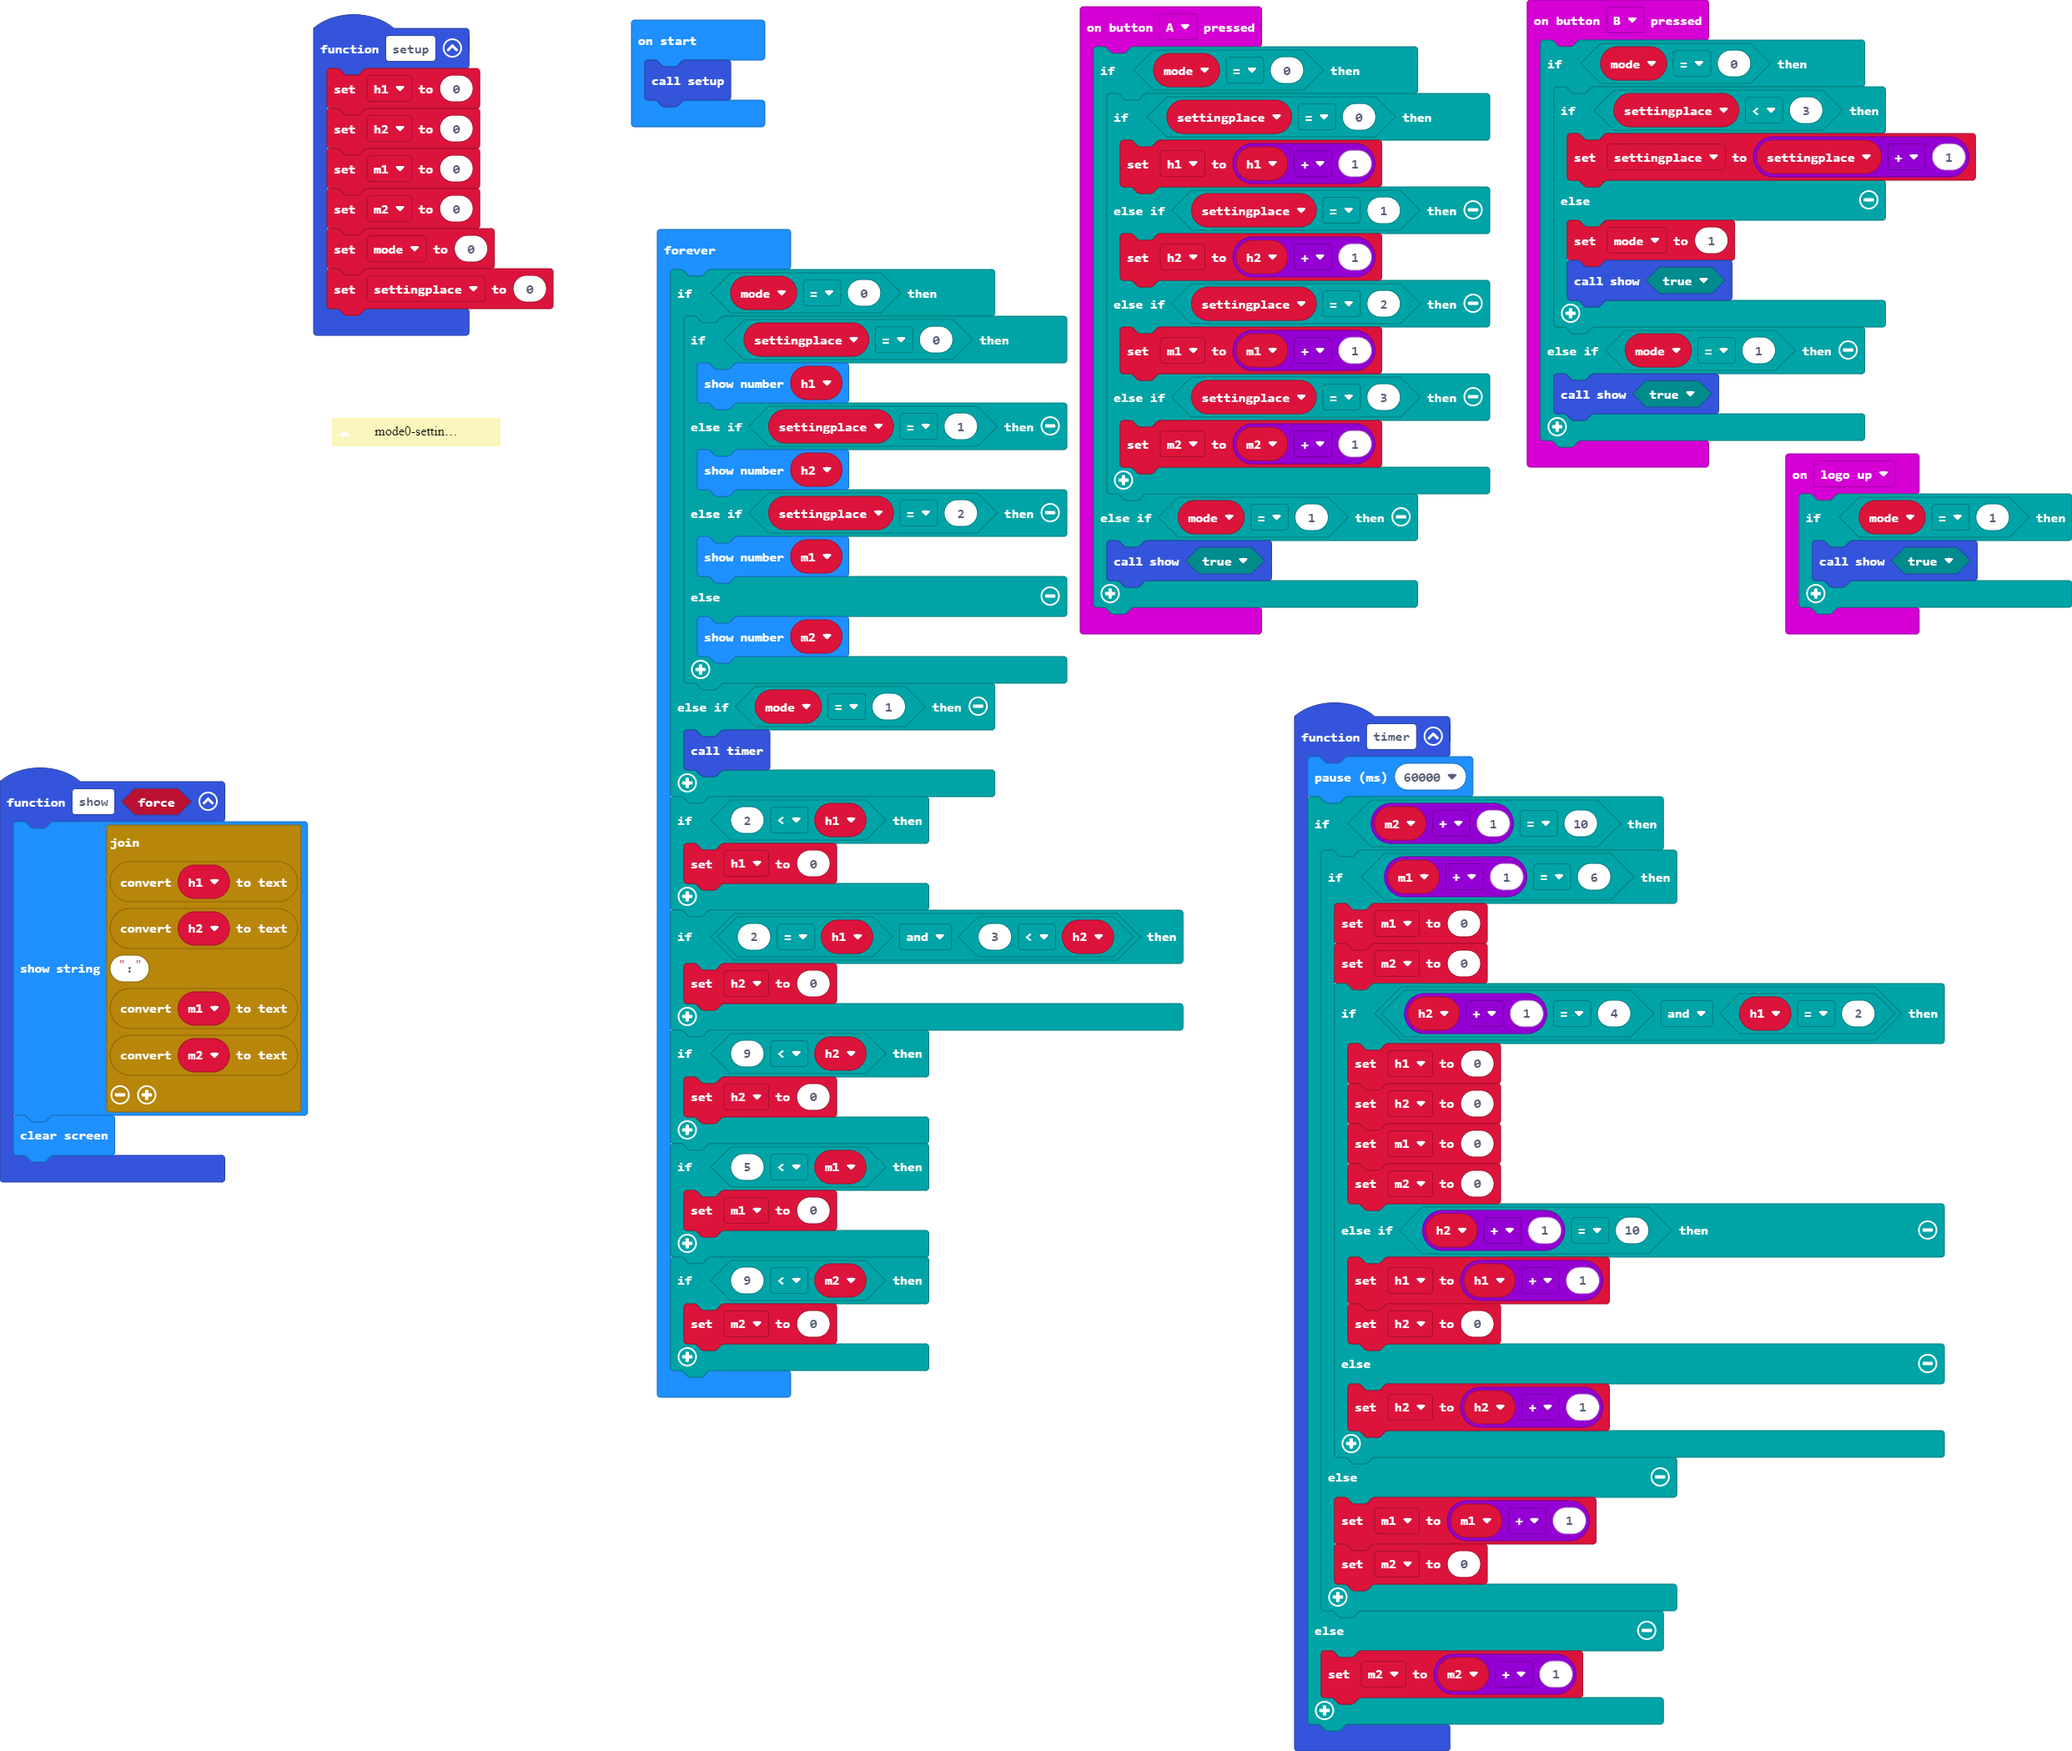
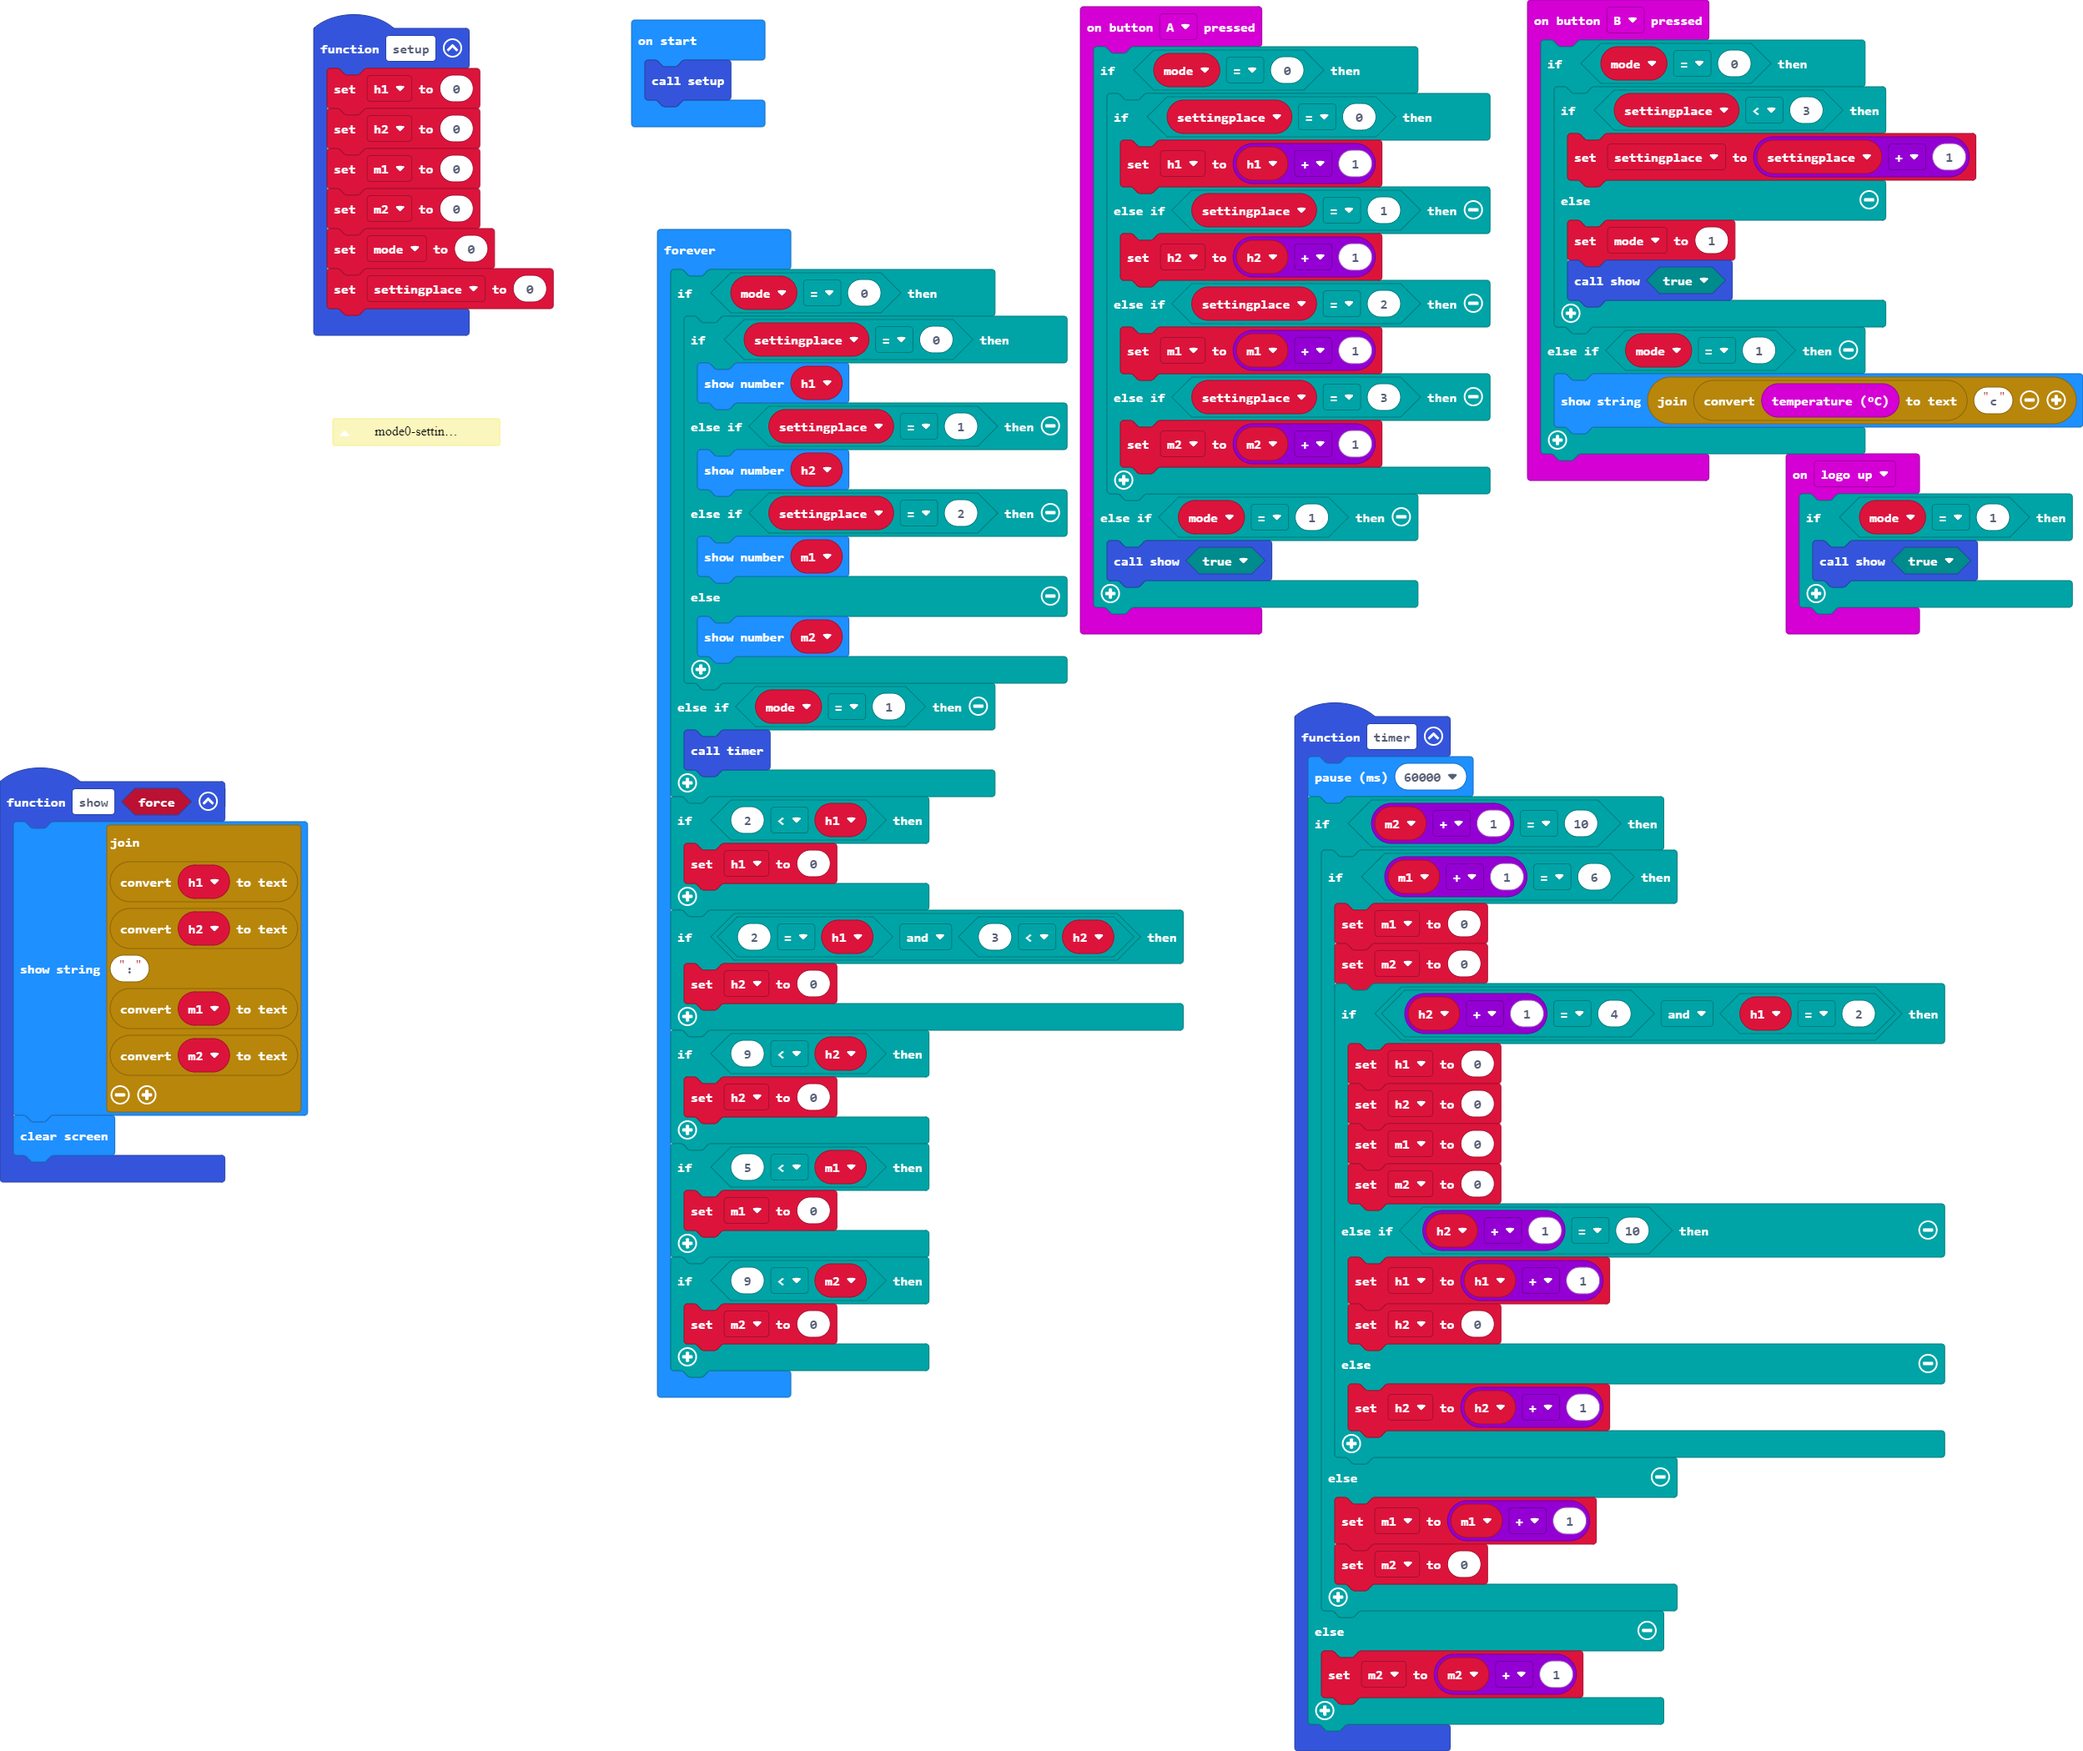
added temperature readings

diff --git a/main.ts b/main.ts
@@ -57,7 +57,7 @@ input.onButtonPressed(Button.B, function () {
             show(true)
         }
     } else if (mode == 1) {
-        show(true)
+        basic.showString("" + convertToText(input.temperature()) + "c")
     }
 })
 function setup () {
